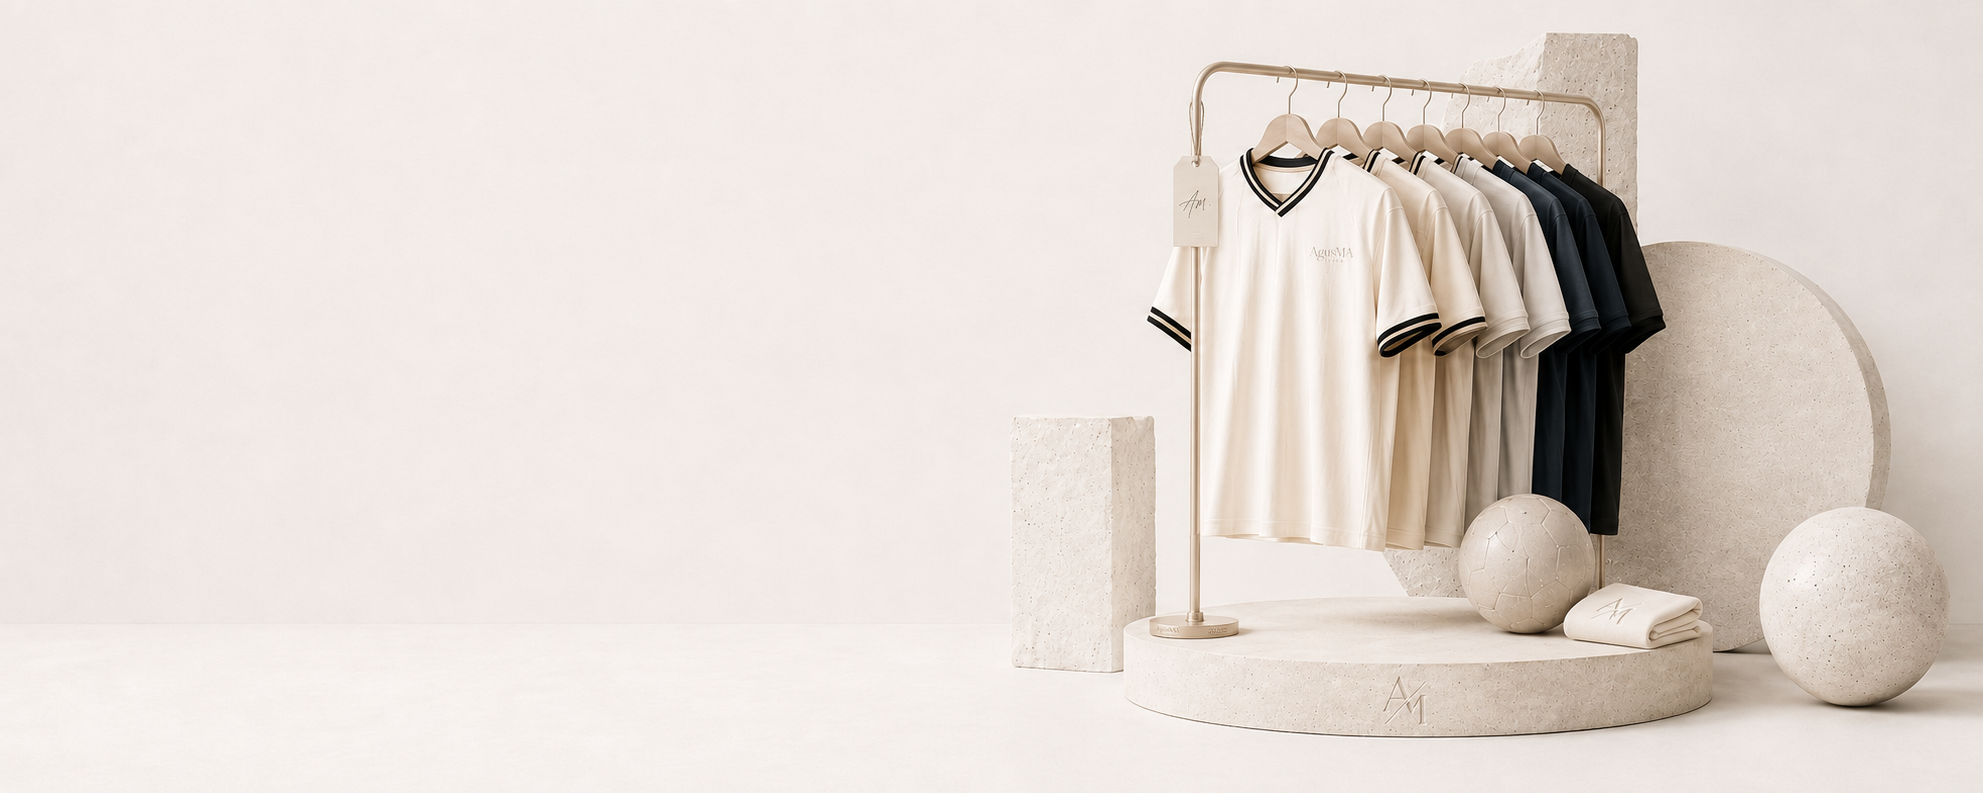
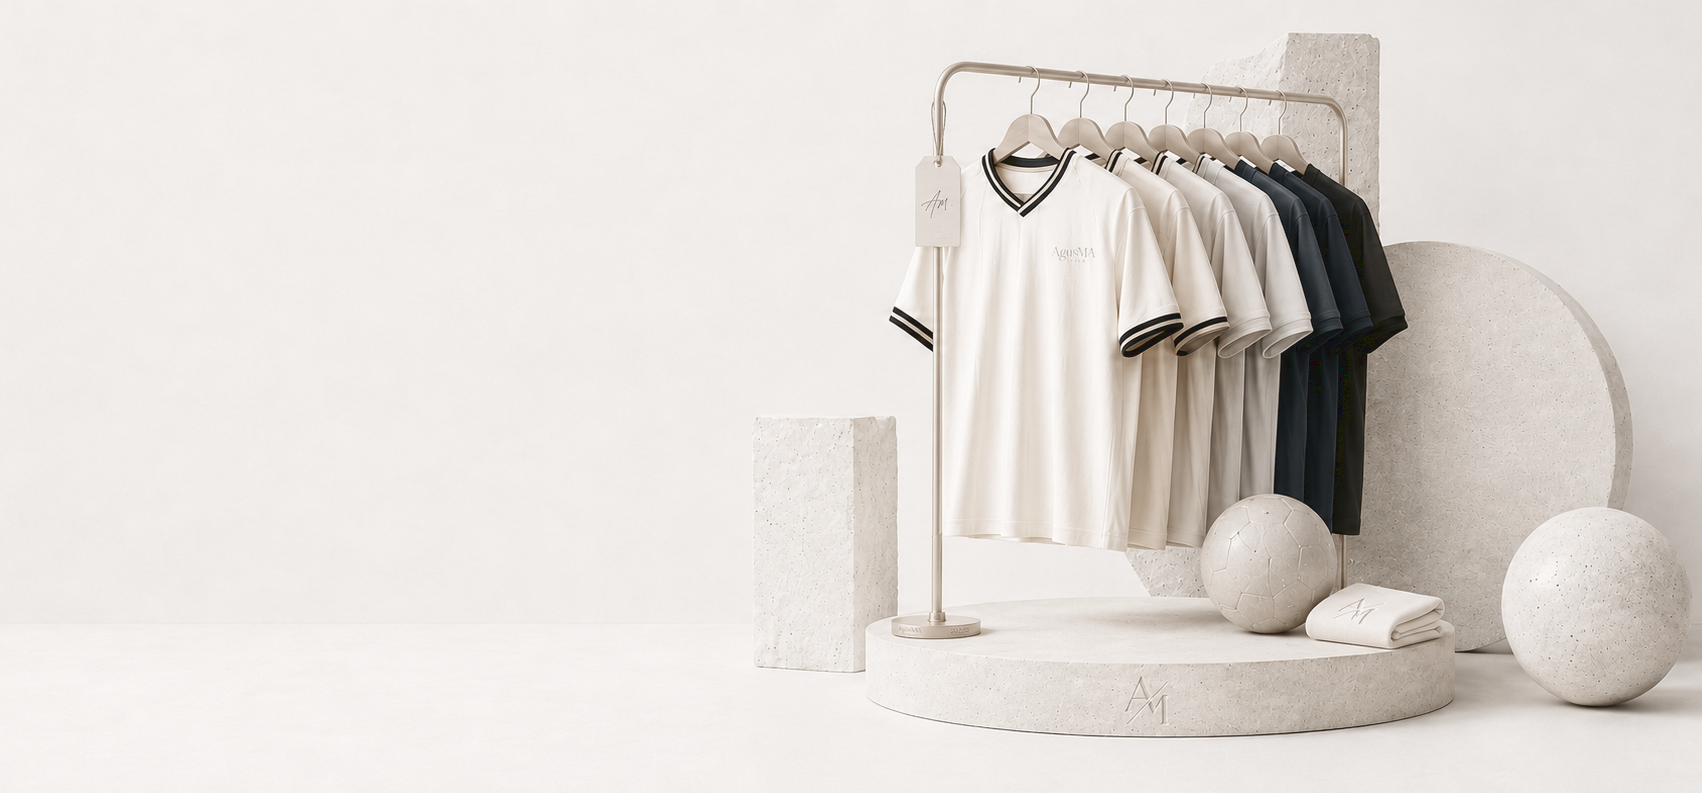
best hero

Changed region(s): [[0.4982, 0.0303, 0.9031, 0.9382], [0.9342, 0.4237, 0.9965, 0.9079], [0.7162, 0.8474, 0.7474, 0.8777]]

diff --git a/public/css/style.css b/public/css/style.css
@@ -35,8 +35,7 @@ button {
   z-index: 50;
 
   width: var(--sidebar-width);
-  border-right: 1px solid var(--color-border);
-  background: rgba(250, 249, 246, 0.92);
+  background: #f8f4f0;
   backdrop-filter: blur(18px);
 
   display: flex;
@@ -48,9 +47,13 @@ button {
 }
 
 .sidebar__monogram {
-  font-family: var(--font-serif);
-  font-size: 28px;
-  letter-spacing: -0.08em;
+  width: 34px;
+}
+
+.sidebar__monogram img {
+  display: block;
+  width: 100%;
+  height: auto;
 }
 
 .sidebar__text {
@@ -61,10 +64,20 @@ button {
   color: var(--color-muted);
 }
 
+.sidebar__divider {
+  width: 1px;
+  height: 72px;
+  background: var(--color-border);
+}
+
 .sidebar__signature {
-  font-family: var(--font-serif);
-  font-style: italic;
-  font-size: 22px;
+  width: 40px;
+}
+
+.sidebar__signature img {
+  display: block;
+  width: 100%;
+  height: auto;
 }
 
 /* HEADER */
@@ -125,10 +138,10 @@ button {
   min-height: 100vh;
   padding-top: var(--header-height);
   display: grid;
-  background-image: linear-gradient(to right, rgba(250, 249, 246, 1) 0%, rgba(250, 249, 246, 1) 35%, rgba(255, 255, 255, 0) 50%), url('../assets/images/hero-bg2.png');
+  background-image: linear-gradient(to right, rgba(250, 249, 246, 1) 0%, rgba(250, 249, 246, 1) 20%, rgba(255, 255, 255, 0) 50%), url('../assets/images/hero-bg3b.svg');
   background-repeat: no-repeat;
   background-size: cover;
-  background-position: center top;
+  background-position: right center;
   grid-template-columns: 0.9fr 1.1fr;
   border-bottom: 1px solid var(--color-border);
 }
@@ -151,9 +164,8 @@ button {
 .hero__title {
   font-family: var(--font-serif);
   font-size: clamp(58px, 7vw, 112px);
-  line-height: 0.92;
-  font-weight: 400;
-  letter-spacing: -0.06em;
+  line-height: 1;
+  font-weight: 300;
 }
 
 .hero__description {

diff --git a/public/index.html b/public/index.html
@@ -13,17 +13,23 @@
 
 <body>
   <aside class="sidebar">
-    <div class="sidebar__monogram">A/M</div>
+    <div class="sidebar__monogram" aria-hidden="true">
+      <img src="./assets/images/monogram.svg" alt="" />
+    </div>
 
     <p class="sidebar__text">
       Design · Development · Solutions
     </p>
 
+    <span class="sidebar__divider" aria-hidden="true"></span>
+
     <p class="sidebar__text">
       Creative Direction & Design
     </p>
 
-    <div class="sidebar__signature">Am.</div>
+    <div class="sidebar__signature" aria-hidden="true">
+      <img src="./assets/images/signature.svg" alt="" />
+    </div>
   </aside>
 
   <header class="header">